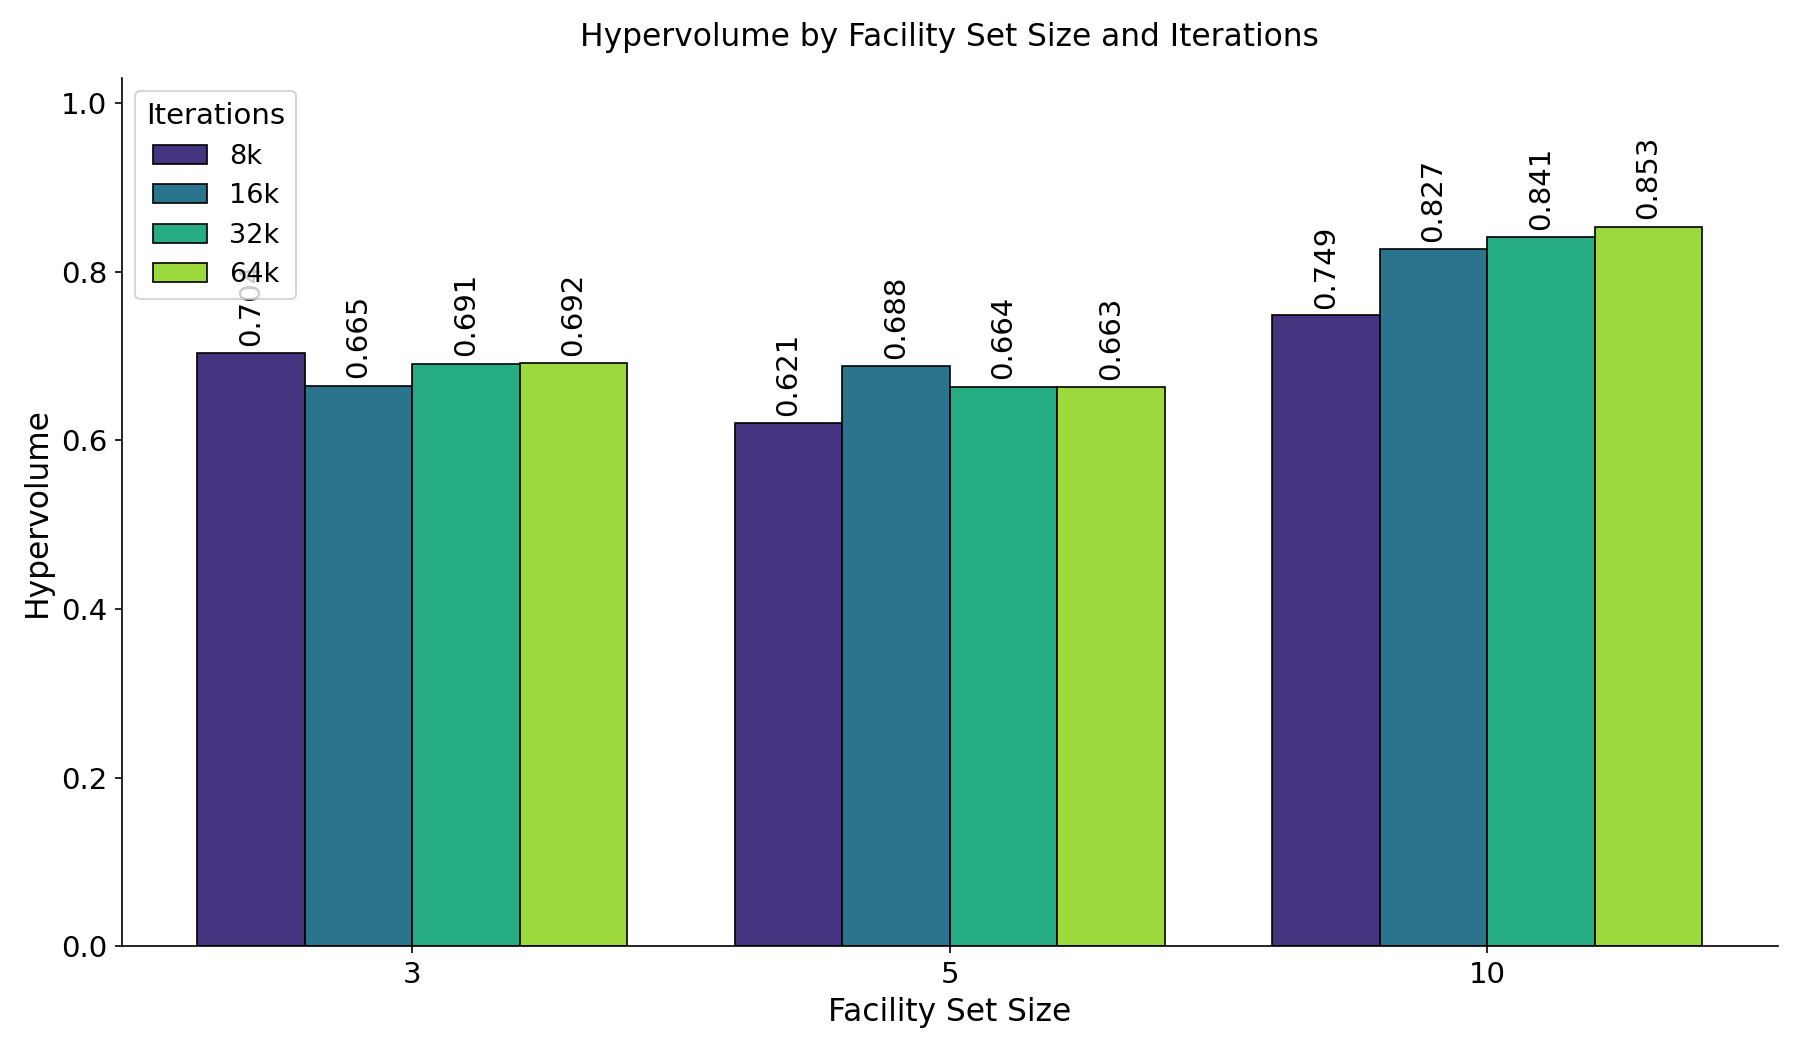
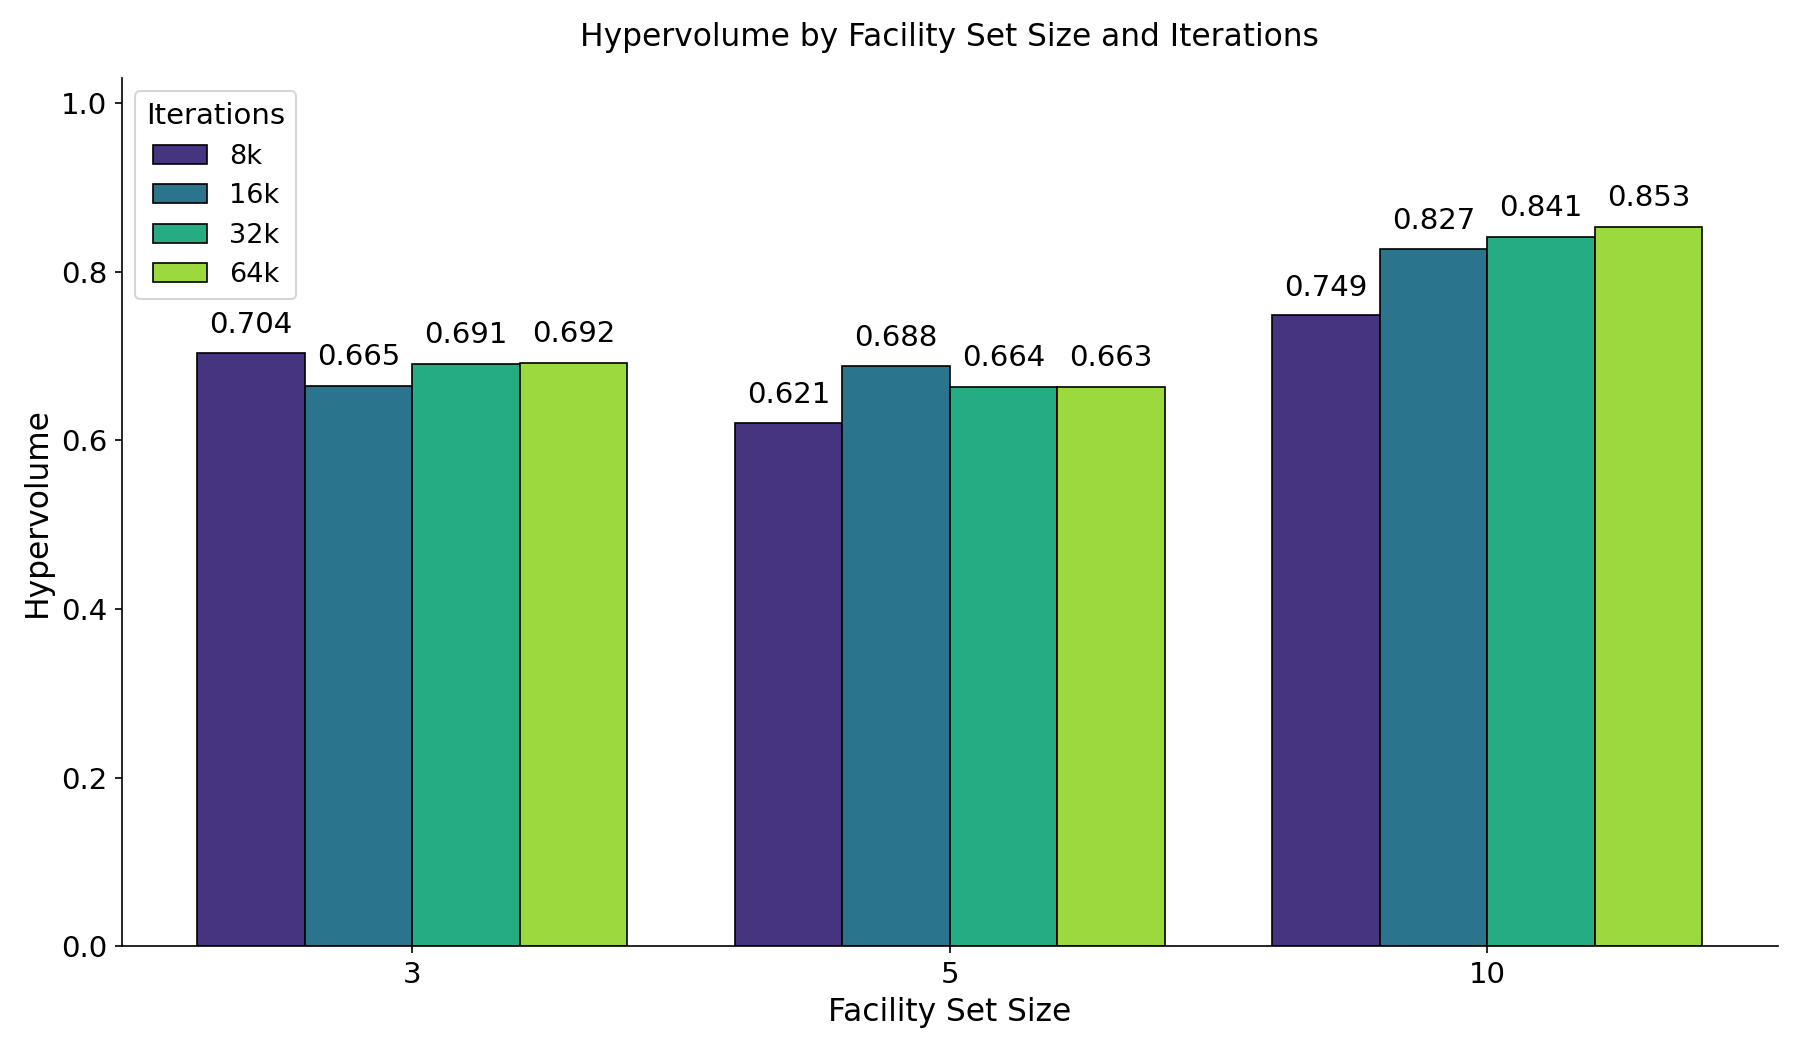
Improving bar values' readability by making them horizontal.

diff --git a/analysis/visualise_metrics.py b/analysis/visualise_metrics.py
@@ -76,12 +76,11 @@ def create_chart(data, facility_sizes, iteration_counts, metric, output_dir):
             if val is not None:
                 ax.text(
                     bar.get_x() + bar.get_width() / 2,
-                    bar.get_height() + 0.01 * ax.get_ylim()[1],
+                    bar.get_height() + 0.02 * (ax.get_ylim()[1] - ax.get_ylim()[0]),
                     f'{val:.3f}',
                     ha='center',
                     va='bottom',
                     fontsize=14,
-                    rotation=90,
                 )
 
     tick_fontsize = 14
@@ -93,7 +92,7 @@ def create_chart(data, facility_sizes, iteration_counts, metric, output_dir):
     ax.set_xticks(x)
     ax.set_xticklabels([str(fs) for fs in facility_sizes], fontsize=tick_fontsize)
     ax.tick_params(axis='y', labelsize=tick_fontsize)
-    ax.legend(title='Iterations', fontsize=13, title_fontsize=14)
+    ax.legend(title='Iterations', fontsize=13, title_fontsize=14, loc='upper left')
 
     ymin, ymax = ax.get_ylim()
     ax.set_ylim(ymin, ymax * 1.15)
